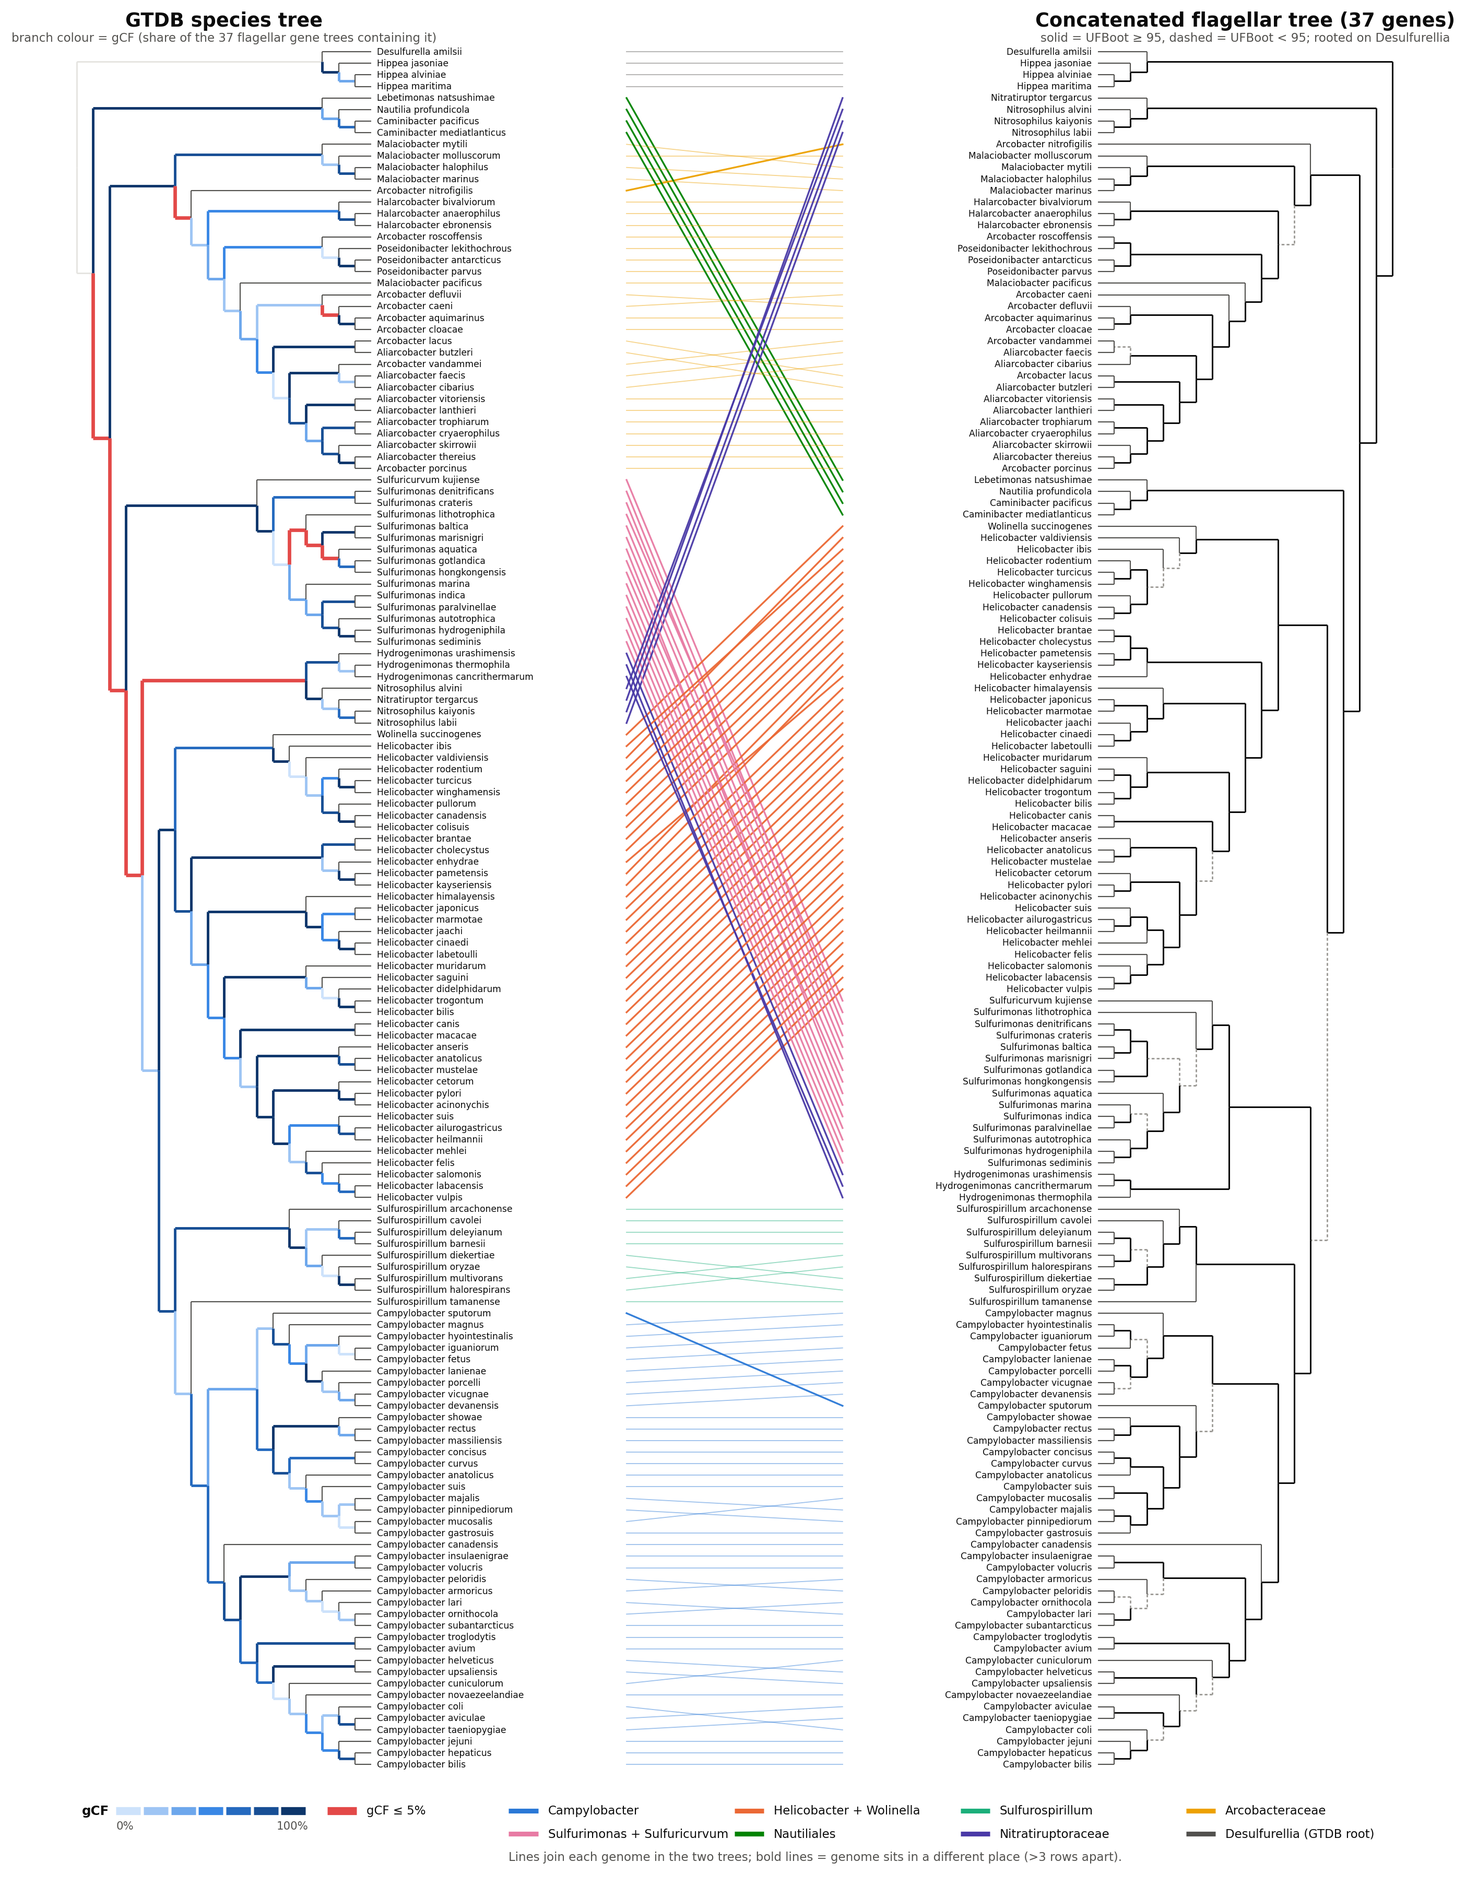
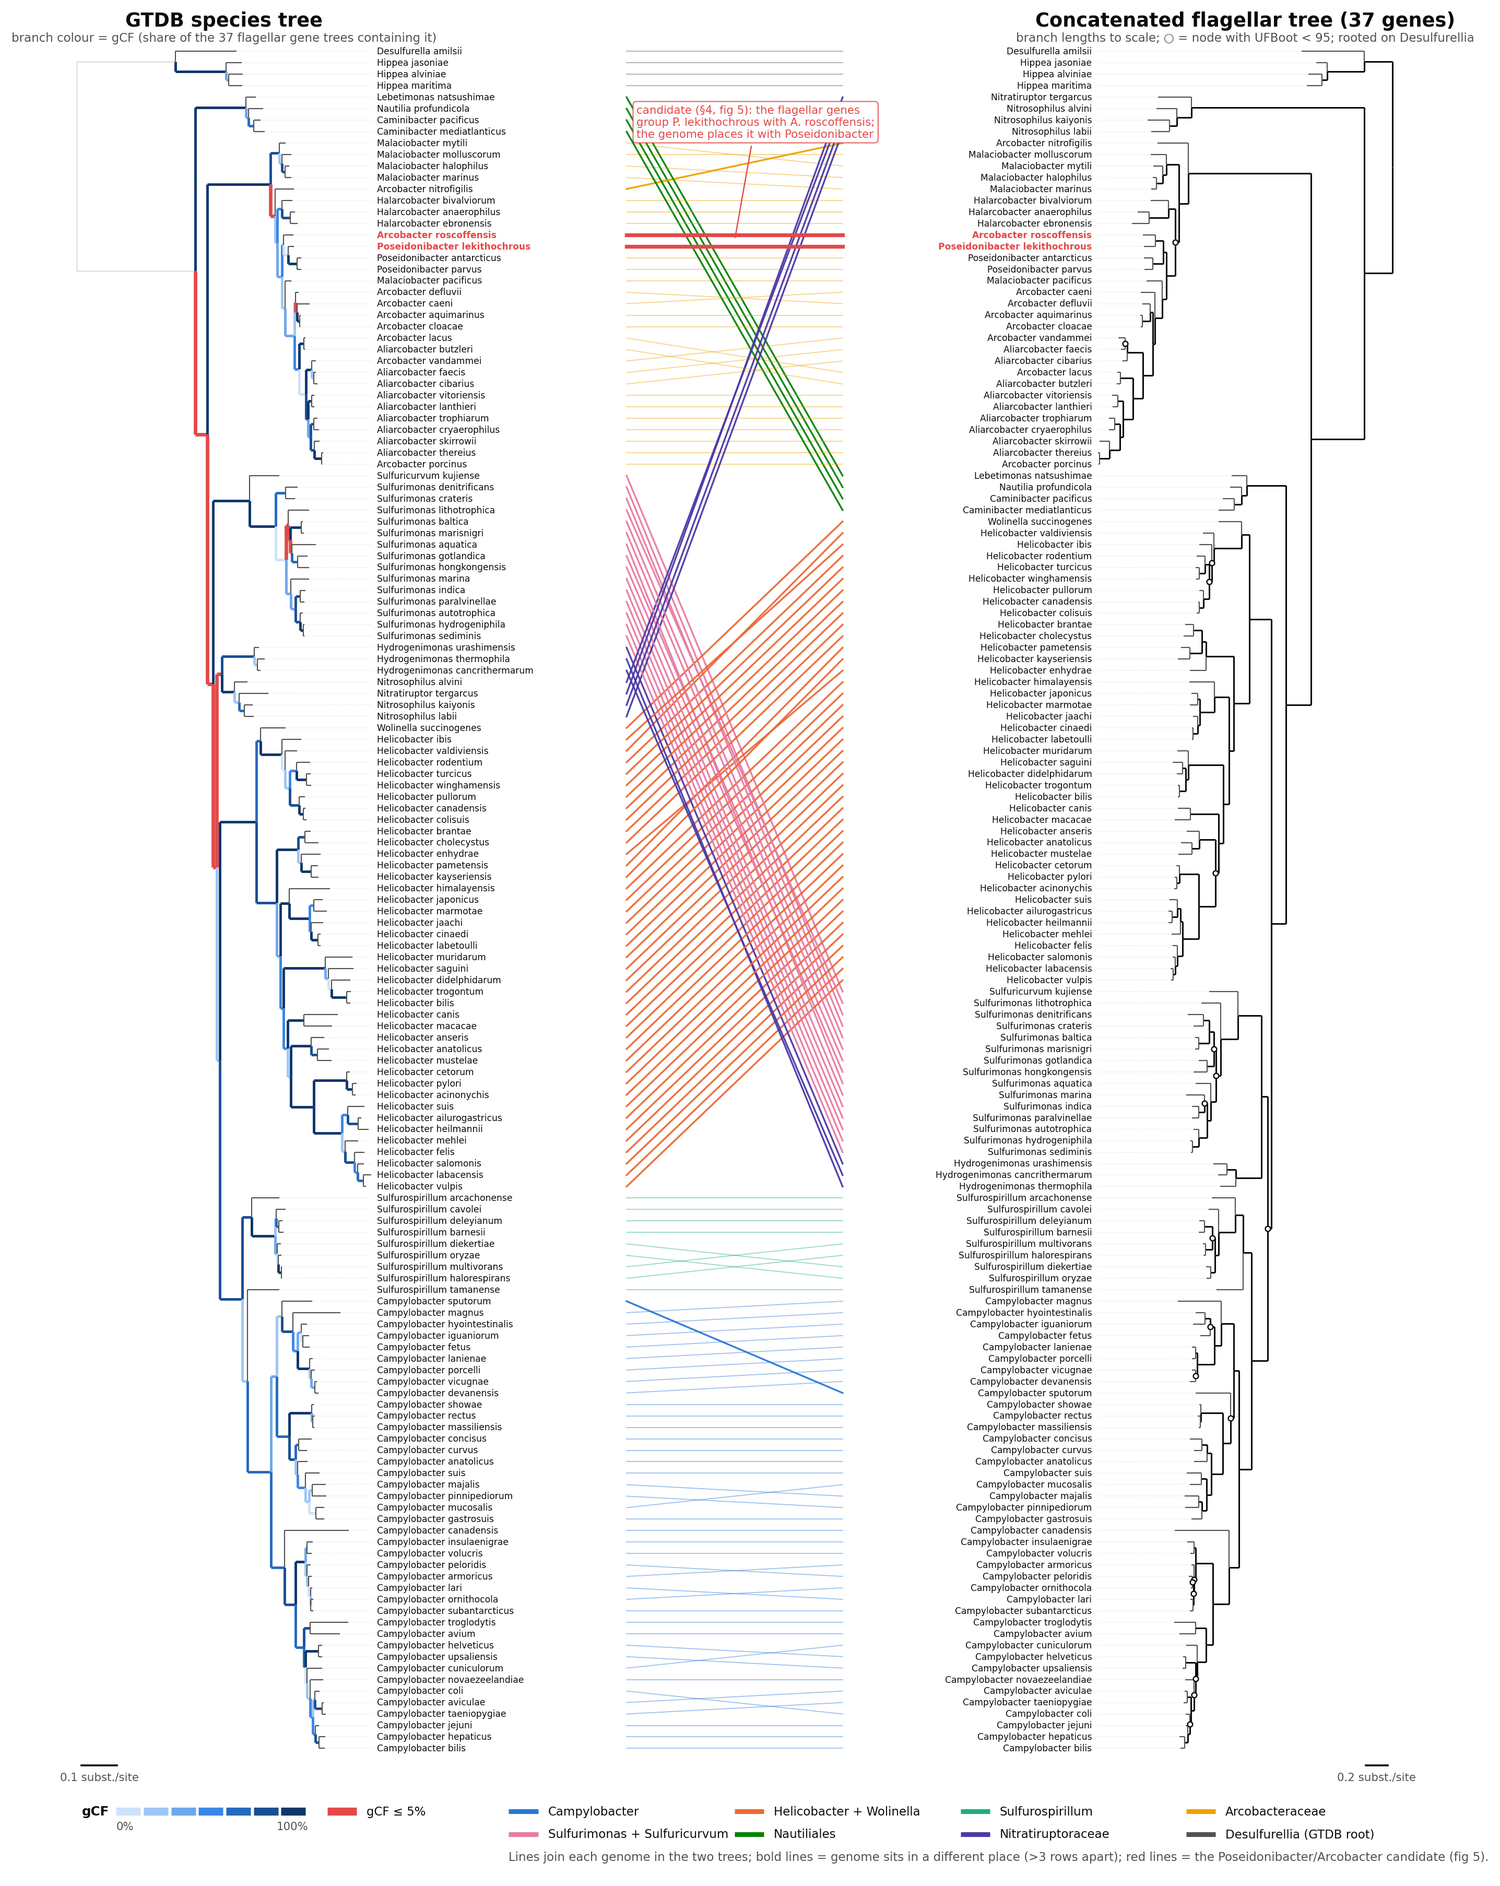
Tanglegram with true branch lengths; add fig5 zoom on the Poseidonibacter candidate
- fig1: phylograms (branch lengths to scale, scale bars), open circles mark
  UFBoot < 95 instead of dashed branches, candidate genomes highlighted.
- fig5: marker vs flagellar tree for the four genomes + outgroup, per-gene
  support along P. lekithochrous's two flagellar loci, raw-identity check.
- RESULTS.md: corrected count to 18 of 21 resolvable genes.

Claude-Session: https://claude.ai/code/session_01NnNHdsAmpXXpidbD6nPzg2

diff --git a/scripts/11_flagellar_trees/plot_results.py b/scripts/11_flagellar_trees/plot_results.py
@@ -11,9 +11,12 @@ Output (gene_order/flagellar_trees/figures/):
   fig2_signal_vs_length.png    per-gene discordance with GTDB vs informative sites
   fig3_concordance_gtdb.png    gCF vs sCF on every GTDB branch
   fig4_recurrent_conflicts.png groups placed differently from GTDB in many gene trees
+  fig5_poseidonibacter.png     zoom on the Poseidonibacter/Arcobacter candidate
 """
 
+import glob
 import json
+from collections import Counter
 import os
 import re
 import sys
@@ -34,6 +37,7 @@ N_GENES = len(open(f"{D}/genes.txt").read().split())
 TEXT, TEXT2, GRID = "#0b0b0b", "#52514e", "#e4e3df"
 SEQ = ["#cde2fb", "#9ec5f4", "#6da7ec", "#3987e5", "#256abf", "#184f95", "#0d366b"]
 ACCENT = "#e34948"
+CASE = {"Poseidonibacter lekithochrous", "Arcobacter roscoffensis"}
 # clade groups -> categorical slots in fixed order (reference palette, light mode)
 GROUPS = [
     ("Campylobacter", "#2a78d6", {"Campylobacter"}),
@@ -64,17 +68,29 @@ def group_color(organism):
     return TEXT2
 
 
-def cladogram_layout(tree, y_of_leaf):
-    """x: leaves aligned at 1, internal nodes at 1 - height/max_height; y: mean of children."""
-    height = {}
-    for n in tree.traverse("postorder"):
-        height[n] = 0 if n.is_leaf() else 1 + max(height[c] for c in n.children)
-    top = height[tree]
+def phylogram_layout(tree, y_of_leaf):
+    """x: root-to-node path length / maximum root-to-tip length (true branch
+    lengths); y: leaves from y_of_leaf, internal nodes at the mean of children."""
+    depth = {}
+    for n in tree.traverse("preorder"):
+        depth[n] = 0.0 if n.is_root() else depth[n.up] + n.dist
+    top = max(depth[l] for l in tree.iter_leaves())
     pos = {}
     for n in tree.traverse("postorder"):
         y = y_of_leaf[n.name] if n.is_leaf() else np.mean([pos[c][1] for c in n.children])
-        pos[n] = (1 - height[n] / top, y)
-    return pos
+        pos[n] = (depth[n] / top, y)
+    return pos, top
+
+
+def scale_bar(ax, x0, y, width, top, mirror, label_len=None):
+    """Scale bar for a tree drawn `width` wide whose deepest tip is `top`
+    substitutions from the root; length is a round number near top/8."""
+    if label_len is None:
+        label_len = min((0.01, 0.02, 0.05, 0.1, 0.2, 0.5, 1.0, 2.0), key=lambda v: abs(v - top / 8))
+    L = width * label_len / top
+    xs = [x0, x0 + L] if not mirror else [x0 - L, x0]
+    ax.plot(xs, [y, y], color=TEXT, lw=1.2)
+    ax.text(np.mean(xs), y - 1.3, f"{label_len} subst./site", ha="center", fontsize=7, color=TEXT2)
 
 
 def draw_tree(ax, tree, pos, x0, width, mirror, branch_style):
@@ -117,8 +133,8 @@ def fig1_tanglegram(org):
     y_flag = {name: -i for i, name in enumerate(flag.get_leaf_names())}
 
     bitmask_splits(gtdb, index)  # annotates node.mask
-    pos_g = cladogram_layout(gtdb, y_gtdb)
-    pos_f = cladogram_layout(flag, y_flag)
+    pos_g, top_g = phylogram_layout(gtdb, y_gtdb)
+    pos_f, top_f = phylogram_layout(flag, y_flag)
 
     fig, ax = plt.subplots(figsize=(15, 21))
     tree_w, lab_w, gap = 3.0, 2.6, 2.2
@@ -135,21 +151,45 @@ def fig1_tanglegram(org):
         return (ACCENT, 2.2, "-") if g <= 5 else (step, 1.6, "-")
 
     def flag_style(n):
-        if n.is_leaf():
-            return TEXT2, 0.7, "-"
-        return (TEXT, 1.0, "-") if n.support >= 95 else ("#9a9893", 0.9, (0, (2, 1.5)))
+        return (TEXT2, 0.7, "-") if n.is_leaf() else (TEXT, 1.0, "-")
 
     draw_tree(ax, gtdb, pos_g, 0, tree_w, False, gtdb_style)
     draw_tree(ax, flag, pos_f, xr_tip, tree_w, True, flag_style)
+    for nd in flag.traverse():
+        if not nd.is_leaf() and not nd.is_root() and nd.support < 95:
+            x, y = pos_f[nd]
+            ax.plot(xr_tip + (1 - x) * tree_w, y, "o", ms=3.2, mfc="white", mec=TEXT, mew=0.8, zorder=5)
+    # dotted leaders from each tip to the aligned labels
+    for leaf in gtdb.iter_leaves():
+        x, y = pos_g[leaf]
+        if x < 0.995:
+            ax.plot([x * tree_w, xl_tip], [y, y], color=GRID, lw=0.5, ls=(0, (1, 1.5)))
+    for leaf in flag.iter_leaves():
+        x, y = pos_f[leaf]
+        if x < 0.995:
+            ax.plot([xr_tip, xr_tip + (1 - x) * tree_w], [y, y], color=GRID, lw=0.5, ls=(0, (1, 1.5)))
 
+    case = {t for t in taxa if org[t] in CASE}
     for t in taxa:
         c = group_color(org[t])
         yl, yr = y_gtdb[t], y_flag[t]
-        ax.text(xl_tip + 0.06, yl, org[t], va="center", ha="left", fontsize=5.6, color=TEXT)
-        ax.text(xr_tip - 0.06, yr, org[t], va="center", ha="right", fontsize=5.6, color=TEXT)
+        hl = t in case
+        kw = dict(va="center", fontsize=5.6, color=ACCENT if hl else TEXT, weight="bold" if hl else "normal")
+        ax.text(xl_tip + 0.06, yl, org[t], ha="left", **kw)
+        ax.text(xr_tip - 0.06, yr, org[t], ha="right", **kw)
         moved = abs(yl - yr) > 3
-        ax.plot([xl_tip + lab_w, xr_tip - lab_w], [yl, yr], color=c,
-                lw=1.1 if moved else 0.6, alpha=0.95 if moved else 0.45)
+        if hl:
+            ax.plot([xl_tip + lab_w, xr_tip - lab_w], [yl, yr], color=ACCENT, lw=2.4, zorder=4)
+        else:
+            ax.plot([xl_tip + lab_w, xr_tip - lab_w], [yl, yr], color=c,
+                    lw=1.1 if moved else 0.6, alpha=0.95 if moved else 0.45)
+    ys = [y_gtdb[t] for t in case]
+    ax.annotate("candidate (§4, fig 5): the flagellar genes\ngroup P. lekithochrous with A. roscoffensis;\n"
+                "the genome places it with Poseidonibacter",
+                xy=(xl_tip + lab_w + gap / 2, np.mean(ys)), xytext=(xl_tip + lab_w + 0.1, np.mean(ys) + 9),
+                fontsize=7, color=ACCENT, ha="left", zorder=6,
+                bbox=dict(boxstyle="round,pad=0.3", fc="white", ec=ACCENT, lw=0.6, alpha=0.95),
+                arrowprops=dict(arrowstyle="-", color=ACCENT, lw=0.8))
 
     n = len(taxa)
     ax.text(tree_w / 2, 2.2, "GTDB species tree", ha="center", fontsize=12, weight="bold", color=TEXT)
@@ -157,11 +197,14 @@ def fig1_tanglegram(org):
             ha="center", fontsize=7.5, color=TEXT2)
     ax.text(xr_tip + tree_w / 2, 2.2, f"Concatenated flagellar tree ({N_GENES} genes)", ha="center",
             fontsize=12, weight="bold", color=TEXT)
-    ax.text(xr_tip + tree_w / 2, 0.9, "solid = UFBoot ≥ 95, dashed = UFBoot < 95; rooted on Desulfurellia",
+    ax.text(xr_tip + tree_w / 2, 0.9, "branch lengths to scale; ○ = node with UFBoot < 95; rooted on Desulfurellia",
             ha="center", fontsize=7.5, color=TEXT2)
 
+    scale_bar(ax, 0.05, -n - 0.5, tree_w, top_g, False)
+    scale_bar(ax, xr_tip + tree_w - 0.05, -n - 0.5, tree_w, top_f, True)
+
     # legends: gCF ramp + clade groups
-    lx, ly = 0.05, -n - 3
+    lx, ly = 0.05, -n - 4.5
     ax.text(lx, ly, "gCF", fontsize=8, color=TEXT, weight="bold", va="center")
     for i, c in enumerate(SEQ):
         ax.plot([lx + 0.35 + i * 0.28, lx + 0.6 + i * 0.28], [ly, ly], color=c, lw=5, solid_capstyle="butt")
@@ -176,10 +219,11 @@ def fig1_tanglegram(org):
         ax.plot([x, x + 0.3], [y, y], color=c, lw=3, solid_capstyle="butt")
         ax.text(x + 0.4, y, name, fontsize=7.5, color=TEXT, va="center")
     ax.text(gx, ly - 4.3, "Lines join each genome in the two trees; bold lines = genome sits in a different "
-            "place (>3 rows apart).", fontsize=7.5, color=TEXT2)
+            "place (>3 rows apart); red lines = the Poseidonibacter/Arcobacter candidate (fig 5).",
+            fontsize=7.5, color=TEXT2)
 
     ax.set_xlim(-0.1, xr_tip + tree_w + 0.1)
-    ax.set_ylim(-n - 8.5, 3)
+    ax.set_ylim(-n - 10, 3)
     ax.axis("off")
     fig.savefig(f"{OUT}/fig1_tanglegram.png", dpi=220, bbox_inches="tight", facecolor="white")
     plt.close(fig)
@@ -329,6 +373,165 @@ def fig4_recurrent(n_show=12):
     plt.close(fig)
 
 
+def _clade_support(t, members):
+    """UFBoot of the branch separating `members` from the rest (unrooted), else None."""
+    ms, allx = set(members), set(t.get_leaf_names())
+    for nd in t.traverse():
+        if nd.is_leaf() or nd.is_root():
+            continue
+        side = set(nd.get_leaf_names())
+        if side == ms or allx - side == ms:
+            return nd.support
+    return None
+
+
+def _pair_identity(a, b):
+    m = t = 0
+    for x, y in zip(a, b):
+        if x != "-" and y != "-":
+            t += 1
+            m += x == y
+    return m, t
+
+
+def _read_fasta(path):
+    seqs, name = {}, None
+    for line in open(path):
+        line = line.strip()
+        if line.startswith(">"):
+            name = line[1:]
+            seqs[name] = []
+        elif name:
+            seqs[name].append(line)
+    return {k: "".join(v) for k, v in seqs.items()}
+
+
+def fig5_case(org):
+    """Zoom on the Poseidonibacter/Arcobacter candidate: marker vs flagellar
+    tree (true branch lengths), per-gene support along P. lekithochrous's
+    flagellar loci, and the raw-identity check."""
+    from Bio import Align
+    from Bio.Align import substitution_matrices
+    inv = {v: k for k, v in org.items()}
+    L, R, P, A = (inv[x] for x in ("Poseidonibacter lekithochrous", "Arcobacter roscoffensis",
+                                   "Poseidonibacter parvus", "Poseidonibacter antarcticus"))
+    outg = [inv[x] for x in ("Aliarcobacter butzleri", "Aliarcobacter skirrowii", "Aliarcobacter cryaerophilus")]
+    keep = [L, R, P, A] + outg
+    short = lambda a: org[a].replace("Poseidonibacter", "P.").replace("Aliarcobacter", "Al.").replace("Arcobacter", "A.")
+
+    fig = plt.figure(figsize=(11, 7.4))
+    gs = fig.add_gridspec(2, 2, height_ratios=[1.3, 1], hspace=0.22, wspace=0.35)
+    for k, (path, title) in enumerate([(f"{D}/markers/free/markers.treefile", "Genome: GTDB bac120 markers"),
+                                       (f"{D}/concat/concat.treefile", f"Flagellar genes ({N_GENES}, concatenated)")]):
+        t = Tree(path, format=0)
+        t.prune(keep, preserve_branch_length=True)
+        og = t.get_common_ancestor(outg)
+        t.set_outgroup(og if og is not t else outg[0])
+        t.ladderize()
+        y = {n: -i for i, n in enumerate(t.get_leaf_names())}
+        pos, top = phylogram_layout(t, y)
+        ax = fig.add_subplot(gs[0, k])
+        for nd in t.traverse():
+            if nd.is_root():
+                continue
+            (xp, yp), (x, yy) = pos[nd.up], pos[nd]
+            ax.plot([xp, x], [yy, yy], color=TEXT, lw=1.3)
+            ax.plot([xp, xp], [yp, yy], color=TEXT, lw=1.3)
+            if not nd.is_leaf():
+                ax.text(x - 0.01, yy + 0.12, f"{nd.support:.0f}", fontsize=7, color=TEXT2, ha="right")
+        for leaf in t.iter_leaves():
+            x, yy = pos[leaf]
+            hl = leaf.name in (L, R)
+            ax.text(x + 0.02, yy, short(leaf.name), va="center", fontsize=8.5,
+                    color=ACCENT if hl else TEXT, weight="bold" if hl else "normal")
+        bar = 0.02 if "markers" in path else 0.1
+        ax.plot([0, bar / top], [-len(keep) + 0.2] * 2, color=TEXT, lw=1.2)
+        ax.text(bar / top / 2, -len(keep) - 0.35, f"{bar} subst./site", ha="center", fontsize=7, color=TEXT2)
+        ax.set_xlim(-0.02, 1.75)
+        ax.set_ylim(-len(keep) - 0.8, 0.8)
+        ax.axis("off")
+        ax.set_title(title, loc="left", fontsize=10.5, weight="bold", color=TEXT)
+
+    # per-gene support strip in P. lekithochrous genome order
+    comb = json.load(open("gene_order/gene_order_combined.json"))
+    gk = next(k for k in comb if k.startswith(L))
+    pos_l = {}
+    for x in comb[gk]["genes"]:
+        pos_l.setdefault(x["gene"], (x["contig"], x["start"]))
+    genes = [g for g in open(f"{D}/genes.txt").read().split() if g in pos_l]
+    genes.sort(key=lambda g: pos_l[g])
+    ax = fig.add_subplot(gs[1, :])
+    cols = {"flag": ACCENT, "genome": "#2a78d6", "neither": "#c9c8c3", "missing": "white"}
+    counts = Counter()
+    for i, g in enumerate(genes):
+        t = Tree(f"{D}/gene_trees/{g}.treefile", format=0)
+        if not {L, R, P, A} <= set(t.get_leaf_names()):
+            kind, sup = "missing", None
+        elif (sup := _clade_support(t, [L, R])) is not None:
+            kind = "flag"
+        elif (sup := _clade_support(t, [L, P, A])) is not None:
+            kind = "genome"
+        else:
+            kind, sup = "neither", None
+        counts[kind] += 1
+        ax.add_patch(plt.Rectangle((i, 0), 0.9, 1, facecolor=cols[kind], edgecolor=TEXT2, lw=0.6))
+        ax.text(i + 0.45, -0.15, g[:3] + g[3:].upper(), rotation=90, ha="center", va="top", fontsize=7.5, color=TEXT)
+        if sup is not None:
+            ax.text(i + 0.45, 1.12, f"{sup:.0f}", ha="center", fontsize=6.5, color=TEXT2)
+    starts = [pos_l[g][1] for g in genes]
+    for lo, hi, lab in [(2.9e6, 3.0e6, "locus 1 (≈2.94–2.97 Mb)"), (3.2e6, 3.3e6, "locus 2 (≈3.24–3.25 Mb)")]:
+        idx = [i for i, s0 in enumerate(starts) if lo <= s0 <= hi]
+        if idx:
+            ax.plot([idx[0], idx[-1] + 0.9], [1.55, 1.55], color=TEXT2, lw=1)
+            ax.text((idx[0] + idx[-1] + 0.9) / 2, 1.65, lab, ha="center", fontsize=8, color=TEXT2)
+    handles = [plt.Rectangle((0, 0), 1, 1, facecolor=cols[k], edgecolor=TEXT2, lw=0.6) for k in ("flag", "genome", "neither", "missing")]
+    ax.legend(handles, [f"groups P. lekithochrous with A. roscoffensis ({counts['flag']})",
+                        f"groups P. lekithochrous with Poseidonibacter ({counts['genome']})",
+                        f"neither / unresolved ({counts['neither']})",
+                        f"gene missing in one of the four ({counts['missing']})"],
+              loc="upper center", bbox_to_anchor=(0.5, -0.05), ncol=2, frameon=False, fontsize=8)
+    ax.set_xlim(-0.3, len(genes) + 0.2)
+    ax.set_ylim(-1.0, 1.9)
+    ax.axis("off")
+    ax.set_title("Each flagellar gene tree, in P. lekithochrous genome order (numbers = UFBoot)",
+                 loc="left", fontsize=10.5, weight="bold", color=TEXT)
+
+    # raw identity check (tree-free)
+    def pooled(alns, x, y):
+        M = T = 0
+        for al in alns:
+            if x in al and y in al:
+                m, t2 = _pair_identity(al[x], al[y])
+                M += m
+                T += t2
+        return 100 * M / T
+    flag_alns = [_read_fasta(p2) for p2 in glob.glob(f"{D}/trimmed/*.faa")]
+    mark = [_read_fasta(f"{D}/markers/bac120_msa_r232.faa")]
+    al = Align.PairwiseAligner(mode="global", open_gap_score=-11, extend_gap_score=-1, end_gap_score=0)
+    al.substitution_matrix = substitution_matrices.load("BLOSUM62")
+    core = {}
+    for x in (R, P):
+        M = T = 0
+        for p2 in glob.glob(f"{D}/core/genes/*.faa"):
+            sq = _read_fasta(p2)
+            a2 = al.align(sq[L], sq[x])[0]
+            for (s1, e1), (s2, e2) in zip(*a2.aligned):
+                for i, j in zip(range(s1, e1), range(s2, e2)):
+                    T += 1
+                    M += sq[L][i] == sq[x][j]
+        core[x] = 100 * M / T
+    txt = ("% protein identity of P. lekithochrous to A. roscoffensis vs to P. parvus:   "
+           f"flagellar genes {pooled(flag_alns, L, R):.1f} vs {pooled(flag_alns, L, P):.1f}   ·   "
+           f"core genes {core[R]:.1f} vs {core[P]:.1f}   ·   "
+           f"GTDB markers {pooled(mark, L, R):.1f} vs {pooled(mark, L, P):.1f}\n"
+           "The genome leans the same way more weakly, so this is a candidate pending the core-gene backbone test.")
+    fig.text(0.06, -0.04, txt, fontsize=8, color=TEXT2)
+    fig.suptitle("Candidate non-vertical inheritance: Poseidonibacter lekithochrous / Arcobacter roscoffensis",
+                 x=0.06, ha="left", fontsize=12, weight="bold", color=TEXT)
+    fig.savefig(f"{OUT}/fig5_poseidonibacter.png", dpi=220, bbox_inches="tight", facecolor="white")
+    plt.close(fig)
+
+
 def main():
     os.makedirs(OUT, exist_ok=True)
     org = load_taxa()
@@ -337,6 +540,7 @@ def main():
     rho = fig2_signal_vs_length(rows)
     fig3_concordance(org)
     fig4_recurrent()
+    fig5_case(org)
     print(f"Spearman rho (informative sites vs RF to GTDB): {rho:.3f}")
     print(f"Wrote {OUT}/")
 

diff --git a/gene_order/flagellar_trees/RESULTS.md b/gene_order/flagellar_trees/RESULTS.md
@@ -284,9 +284,10 @@ primary candidates in the Holm correction, *Poseidonibacter* is p = 0.024.
   flagellar genes share a more recent ancestor than their genomes.
 - **It is the whole flagellar gene set.** *P. lekithochrous* has two flagellar
   loci (≈ 2.94–2.97 Mb and 3.24–3.25 Mb on NZ_CP054052.1). In both, nearly
-  every gene tree groups it with *A. roscoffensis* (19 of 22 resolvable genes;
+  every gene tree groups it with *A. roscoffensis* (18 of 21 resolvable genes;
   13 at UFBoot ≥ 95); only flgD, flgB and flgH follow the genome, weakly
-  (UFBoot 71–94).
+  (UFBoot 71–94); 4 are unresolved and fliW is missing from one of the four
+  genomes (`fig5_poseidonibacter.png`).
 - **Direction unresolved.** Either genome could be the recipient (both give
   the same topology), and base composition cannot tell: genome GC 28.5 % vs
   28.7 %, flagellar genes 29.4 % vs 29.9 %.
